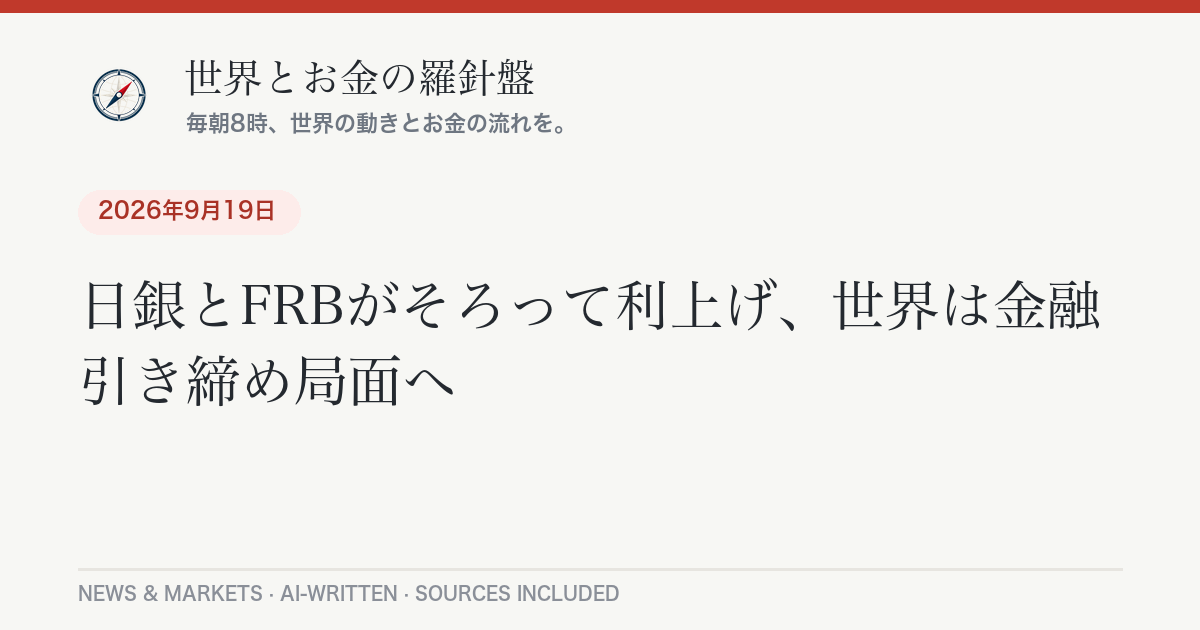
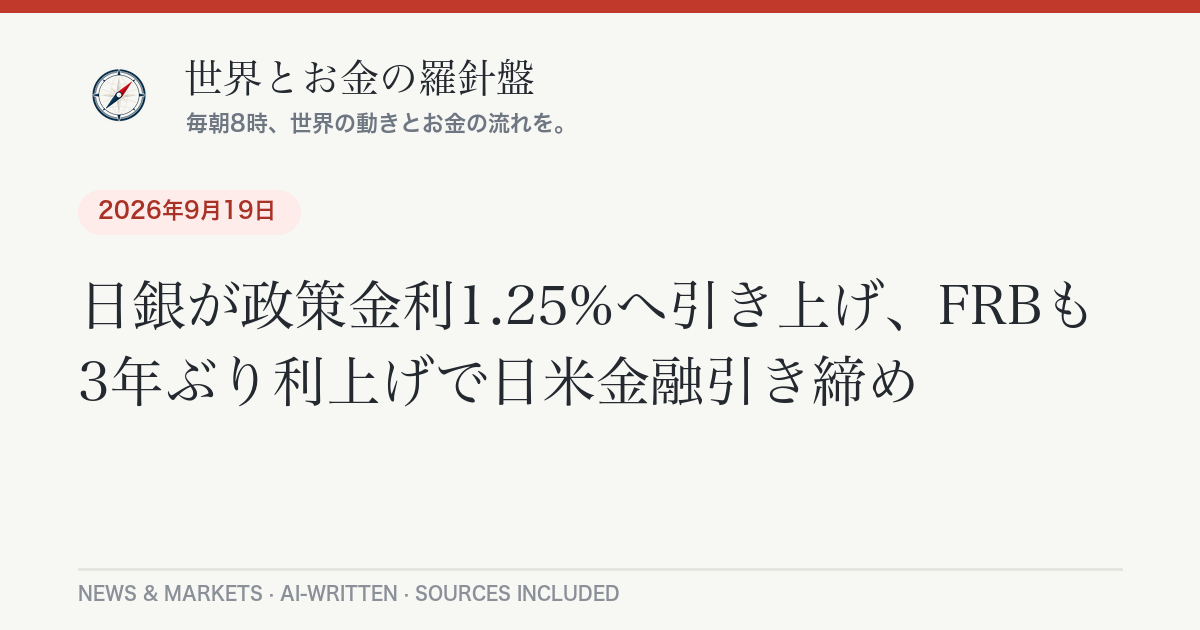
Daily briefing 2026-09-21

Changed region(s): [[0.0617, 0.4222, 0.925, 0.6635]]

diff --git a/_posts/2026-09-21-daily-briefing.md b/_posts/2026-09-21-daily-briefing.md
@@ -1,0 +1,97 @@
+---
+layout: post
+lang: ja
+title: "独州選挙で極右躍進、モスクワは過去最大規模のドローン攻撃で製油所被弾｜9月21日のニュースとお金"
+date: 2026-09-21 07:45:00 +0900
+categories: [ニュース, 経済]
+headline: "独州選挙で極右躍進、モスクワは過去最大規模のドローン攻撃で製油所被弾"
+permalink: /2026/09/21/daily-briefing/
+---
+
+## 今日のポイント
+
+中東の石油インフラへの攻撃が続き、原油高がアメリカと日本の同時利上げにつながっている。ヨーロッパではドイツの州議会選挙で極右政党が大きく議席を伸ばし、ロシアでは最大規模のドローン攻撃でモスクワの製油所が被弾するなど、地政学リスクが一気に表面化した週末になった。為替は円安・ドル高が続き、日銀は「レートチェック」で市場をけん制している。
+
+## 今日の羅針盤（Compass Insight）
+
+このところの世界経済を貫くキーワードは「利上げの連鎖」だ。サウジアラビアの主要パイプラインがフーシ派の攻撃で止まり、原油高が[インフレ圧力](https://www.cnbc.com/2026/09/16/fed-rate-decision-september-2026.html)として跳ね返ってきたことで、アメリカは3年ぶりの利上げに踏み切り、日本も日銀が政策金利を引き上げた。普通なら「アメリカが利上げ→ドル買い材料」であっても、日本側の利上げペースがそれ以上に緩やかであれば金利差は縮まらず、円安はむしろ止まりにくい。実際に9月19日未明には日銀が「レートチェック」を行うほど円安が進んだ。
+
+家計への影響としては、二重の値上がり圧力に注意したい。原油高は電気・ガス代やガソリン価格に直結し、円安はそれに輸入コストの上乗せを加える。住宅ローンを変動金利で組んでいる場合、日銀の利上げが続けば返済額への影響も無視できなくなってくる。短期的には中東情勢の沈静化・原油価格の高止まりが続くかどうかが最大の焦点。中長期では、日米の金融政策がどこまで利上げを続けるのか、その方向性の見極めが家計・投資双方にとって重要になる。
+
+## 今日のニュース
+
+### 日本
+- 台風25号が関東地方に接近中。21日午後から22日夜にかけて雨・風のピークが予想され、土砂災害や河川の増水に警戒が呼びかけられている。
+- 日銀が9月18日に利上げを決定し、補完当座預金制度の適用利率を1.25%に引き上げ（9月24日以降適用）。植田総裁は「政策の局面が変化している」と述べた。
+- 円相場は9月18日深夜から19日未明にかけて急騰する場面があり、[日銀がレートチェックを実施したと伝わった](https://www.nikkei.com/article/DGXZQOGN18C290Y6A910C2000000/)。為替介入への警戒感が強まっている。
+
+### 世界
+- ロシアの議会選挙(9月18〜20日)が終了。[中央選管の速報値で与党「統一ロシア」が57.54%を獲得](https://en.wikipedia.org/wiki/2026_Russian_legislative_election)し、憲法改正が可能な絶対多数を維持した見通し。
+- モスクワが[過去最大規模とされるドローン攻撃を受け](https://www.bloomberg.com/news/articles/2026-09-20/moscow-refinery-hit-as-russia-reports-largest-2026-drone-attack)、市内の製油所（モスクワの燃料供給の4割を担う）が被弾・出火。モスクワ市長は450機のドローンを撃墜したと説明し、地域では死者も出ている。
+- トランプ米大統領が[デンマークとの間でグリーンランドの安全保障に関する合意に達したと発表](https://www.npr.org/2026/09/19/g-s1-144158/us-and-denmark-reach-deal)。米軍のプレゼンス拡大を柱とする内容で、デンマークの主権自体は維持される形。
+
+### アメリカ
+- 米連邦準備制度理事会(FRB)が[9月16日、政策金利を0.25%引き上げ3.75〜4.00%とする決定](https://www.cnbc.com/2026/09/16/fed-rate-decision-september-2026.html)を全会一致で行った。3年ぶりの利上げで、原油高によるインフレへの対応が理由。
+- デラウェア州の裁判所が、[Fox Corp.に対し株主訴訟に関連する文書数百点の開示を命じる判断](https://www.npr.org/2026/09/20/nx-s1-5974900/fox-shareholders-murdoch-lawsuit)を下した。ルパート・マードック氏らが過去のスキャンダルにどう対応したかが争点。
+- サウジアラビア国内の親イラン系武装勢力による攻撃で主要石油パイプライン「東西パイプライン」が停止し、[原油価格が1週間で5%超上昇](https://www.abc.net.au/news/2026-09-18/houthi-attacks-saudi-oil-world-markets/107168508)する事態に。中東情勢の緊張が続いている。
+
+### ヨーロッパ
+- ドイツの2つの州議会選挙で、[メルツ首相率いるCDUが歴史的な大敗](https://www.euronews.com/my-europe/2026/09/20/german-exit-polls-show-merzs-party-suffering-heavy-losses-in-2-german-state-elections)。メクレンブルク＝フォアポンメルン州では極右政党AfDが約38%を獲得して第1党となる見通しで、ベルリンでもCDUは左派党に次ぐ2位にとどまった。メルツ氏は結果を「災難」と表現しつつ続投の意向を示している。
+- フランスとカナダが対米関係が緊張する中で関係強化を表明。
+- イタリアのメローニ首相が学校でのブルカ着用禁止と留学生受け入れの上限設定を発表。
+
+## 経済とお金の動き
+
+**世界の経済・市場**
+
+| 項目 | 値 | 前日比・補足 |
+|---|---|---|
+| NYダウ平均 | 51,682.64ドル（9/18終値） | <span class="chg-down">-95.40ドル（-0.18%）</span> |
+| S&P500 | 7,650.50（9/18終値） | <span class="chg-up">+0.17%</span> |
+| ナスダック総合 | 26,522.55（9/18終値） | <span class="chg-up">+0.39%</span> |
+| WTI原油 | 100.30ドル/バレル（9/18終値） | <span class="chg-down">-1.58%</span> |
+| Brent原油 | 103.87ドル/バレル（9/18終値） | <span class="chg-down">-0.91%</span> |
+| ドル円 | 156円68銭〜156円96銭（9/21日本時間6時） | <span class="chg-up">+0円80銭</span> |
+
+米株市場は[FRBの利上げ発表を消化](https://www.thestreet.com/stock-market-today/stock-market-today-dow-jones-sp-500-nasdaq-updates-sept-18-2026)しつつ、ダウが小幅安、ナスダックは小幅高という「まちまち」の反応。原油はサウジのパイプライン問題が織り込まれた後、[高値圏からやや反落](https://tradingeconomics.com/commodity/crude-oil)している。ドル円は9/21朝時点で円安方向に振れており、日銀のレートチェック後もなお156円台後半の水準が続く。
+
+**アメリカの経済**
+
+FRBは[3年ぶりとなる利上げを決定](https://www.cnbc.com/2026/09/16/fed-rate-decision-september-2026.html)し、政策金利は3.75〜4.00%に。原油高が主因のインフレ圧力への対応で、市場は年内あと1回の追加利上げを織り込みつつある。長期金利（10年債利回り）も5%近辺と高水準が続いており、株式市場には重しとなっている。
+
+**日本の経済**
+
+日銀は補完当座預金金利を1.25%に引き上げる決定をしたが、これが「円安の歯止め」にはなっていない点が特徴的。米側の利上げ幅・スピードの方が大きく、金利差を意識した円売りが続いている。日経平均は9月18日終値で65,018円95銭（+882円70銭、+1.4%）と底堅く推移しており、輸出関連企業を中心に円安が業績にプラスという受け止めも見られる。
+
+## 今日の注目銘柄・セクター
+
+- **エネルギー株（ExxonMobil、Chevron、ConocoPhillipsなど）**：サウジの石油インフラ攻撃と原油高を背景に、[2026年の年初来上昇率がExxonMobilで約40%、Chevronで約44%](https://finance.yahoo.com/energy/articles/exxonmobil-40-2026-rising-oil-190811096.html)に達するなど大幅高。中東情勢が原油市況を左右する構図が続いている。
+- **Fox Corp.**：株主代表訴訟でデラウェア州裁判所が文書開示を命じたことで、マードック家の企業統治をめぐる係争が長期化する見通し。
+- **日本の輸出関連株**：円安進行を追い風に堅調。日経平均の底堅さの一因となっている。
+
+*※特定銘柄の売買を推奨するものではありません。投資判断はご自身の責任で。*
+
+## まとめ：注目の3つ
+
+1. サウジの石油インフラ攻撃と中東情勢——原油高がいつまで続くか
+2. 日米の利上げペースと為替介入の有無——円安がどこで止まるか
+3. ドイツをはじめとする欧州政治の不安定化——極右伸長が政策・市場に与える影響
+
+---
+<div class="post-sources" markdown="1">
+
+**出典：**
+- [Fed rate decision September 2026: Rates rise to 3.75%-4% - CNBC](https://www.cnbc.com/2026/09/16/fed-rate-decision-september-2026.html)
+- [Moscow Refinery Hit as Russia Reports Largest 2026 Drone Attack - Bloomberg](https://www.bloomberg.com/news/articles/2026-09-20/moscow-refinery-hit-as-russia-reports-largest-2026-drone-attack)
+- [Exit polls show Merz's party suffering heavy losses in 2 German state elections - Euronews](https://www.euronews.com/my-europe/2026/09/20/german-exit-polls-show-merzs-party-suffering-heavy-losses-in-2-german-state-elections)
+- [U.S. and Denmark reach deal to build U.S. military presence in Greenland - NPR](https://www.npr.org/2026/09/19/g-s1-144158/us-and-denmark-reach-deal)
+- [Judge orders Fox to hand over hundreds of documents in shareholders' case - NPR](https://www.npr.org/2026/09/20/nx-s1-5974900/fox-shareholders-murdoch-lawsuit)
+- [How a week of Houthi attacks threatens Saudi oil and rattles markets - ABC News](https://www.abc.net.au/news/2026-09-18/houthi-attacks-saudi-oil-world-markets/107168508)
+- [日銀がレートチェック 円相場が急騰、一時156円台後半 - 日本経済新聞](https://www.nikkei.com/article/DGXZQOGN18C290Y6A910C2000000/)
+- [日経平均大引け：前日比882.70円高の65018.95円 - 財経新聞](https://www.zaikei.co.jp/article/20260918/870698.html)
+- [2026 Russian legislative election - Wikipedia](https://en.wikipedia.org/wiki/2026_Russian_legislative_election)
+- 市場データ: [frankfurter API](https://api.frankfurter.app/) ／ Yahoo Finance ほか
+
+*本記事は公開情報をもとに作成しています。*
+
+</div>

diff --git a/_posts/2026-09-21-daily-briefing-en.md b/_posts/2026-09-21-daily-briefing-en.md
@@ -1,0 +1,56 @@
+---
+layout: post
+lang: en
+title: "AfD surges in German state elections as Moscow refinery hit in record drone attack — September 21, 2026"
+date: 2026-09-21 07:45:00 +0900
+headline: "AfD surges in German state elections as Moscow refinery hit in record drone attack"
+permalink: /2026/09/21/daily-briefing/
+---
+
+## Top U.S. Stories
+
+- The Federal Reserve [raised its benchmark rate by 25 basis points to 3.75%-4.00%](https://www.cnbc.com/2026/09/16/fed-rate-decision-september-2026.html) on September 16, its first hike in three years, in response to inflation pressure from surging oil prices. *Why it matters:* Higher U.S. rates widen the pull on capital worldwide and raise borrowing costs for mortgages, credit cards, and business loans just as households are also facing pricier energy.
+- A Delaware judge [ordered Fox Corp. to hand over hundreds of documents](https://www.npr.org/2026/09/20/nx-s1-5974900/fox-shareholders-murdoch-lawsuit) in a shareholder suit examining how Rupert Murdoch and the board handled past scandals. *Why it matters:* A ruling that board members lacked independence could send the case to trial and reshape scrutiny of Murdoch-family governance.
+- A week of Houthi attacks knocked out Saudi Arabia's East-West pipeline, [pushing oil prices up more than 5% in a week](https://www.abc.net.au/news/2026-09-18/houthi-attacks-saudi-oil-world-markets/107168508). *Why it matters:* Sustained Gulf supply disruption is the direct driver behind this month's inflation scare and the Fed's rate move.
+- Measles cases continue to climb in parts of the U.S., with Republican Sen. Bill Cassidy pushing back on downplaying the disease's risks.
+- Grandparents are stepping up to cover rising childcare costs as affordability pressures mount on U.S. families.
+
+## Compass Insight
+
+The throughline this week is a "rate-hike chain reaction." Saudi pipeline attacks pushed oil higher, which fed straight into inflation readings, prompting the Fed's first hike in three years even as Japan's central bank also raised rates. Normally a Fed hike would support the dollar and pressure other currencies further — which is exactly what's happening to the yen, still trading near 156-157 per dollar despite Japan's own tightening, because the pace of Japanese hikes remains slower than the Fed's.
+
+For households, the near-term risk is a double hit: oil-driven inflation raising fuel and utility costs directly, compounded for non-U.S. consumers by a stronger dollar making imports pricier. Watch short-term for whether Gulf tensions ease and oil prices come off their highs; over the medium term, the key question is how many more hikes the Fed and BOJ deliver before pausing — that path will matter more for mortgages and portfolios than any single week's headline.
+
+## Markets
+
+- Dow Jones: 51,682.64 (Sept 18 close), <span class="chg-down">-95.40 (-0.18%)</span>
+- S&P 500: 7,650.50 (Sept 18 close), <span class="chg-up">+0.17%</span>
+- Nasdaq Composite: 26,522.55 (Sept 18 close), <span class="chg-up">+0.39%</span>
+- WTI crude: $100.30/barrel (Sept 18 close), <span class="chg-down">-1.58%</span>
+- Brent crude: $103.87/barrel (Sept 18 close), <span class="chg-down">-0.91%</span>
+- USD/JPY: ¥156.68-156.96 (6am JST, Sept 21), <span class="chg-up">+¥0.80</span>
+
+U.S. stocks were mixed as markets digested the Fed's hike, with the Dow slipping slightly while the Nasdaq edged higher. The [10-year Treasury yield has climbed near 5%](https://www.thestreet.com/stock-market-today/stock-market-today-dow-jones-sp-500-nasdaq-updates-sept-18-2026), its highest since 2007, weighing on rate-sensitive sectors.
+
+## Stocks in Focus
+
+Energy majors have been the standout story of 2026: [ExxonMobil is up roughly 40% year-to-date and Chevron around 44%](https://finance.yahoo.com/energy/articles/exxonmobil-40-2026-rising-oil-190811096.html), driven by the run-up in crude prices tied to Gulf supply disruptions. Fox Corp. shares are one to watch given the fresh discovery order in its shareholder litigation.
+
+---
+<div class="post-sources" markdown="1">
+
+**Sources:**
+- [Fed rate decision September 2026: Rates rise to 3.75%-4% - CNBC](https://www.cnbc.com/2026/09/16/fed-rate-decision-september-2026.html)
+- [Moscow Refinery Hit as Russia Reports Largest 2026 Drone Attack - Bloomberg](https://www.bloomberg.com/news/articles/2026-09-20/moscow-refinery-hit-as-russia-reports-largest-2026-drone-attack)
+- [Exit polls show Merz's party suffering heavy losses in 2 German state elections - Euronews](https://www.euronews.com/my-europe/2026/09/20/german-exit-polls-show-merzs-party-suffering-heavy-losses-in-2-german-state-elections)
+- [U.S. and Denmark reach deal to build U.S. military presence in Greenland - NPR](https://www.npr.org/2026/09/19/g-s1-144158/us-and-denmark-reach-deal)
+- [Judge orders Fox to hand over hundreds of documents in shareholders' case - NPR](https://www.npr.org/2026/09/20/nx-s1-5974900/fox-shareholders-murdoch-lawsuit)
+- [How a week of Houthi attacks threatens Saudi oil and rattles markets - ABC News](https://www.abc.net.au/news/2026-09-18/houthi-attacks-saudi-oil-world-markets/107168508)
+- [ExxonMobil Is Up 40% in 2026 - Yahoo Finance](https://finance.yahoo.com/energy/articles/exxonmobil-40-2026-rising-oil-190811096.html)
+- Market data: [frankfurter API](https://api.frankfurter.app/) / Yahoo Finance and other sources
+
+*This post was compiled from public information.*
+
+</div>
+
+*Auto-generated and AI-written. Not investment advice.*
